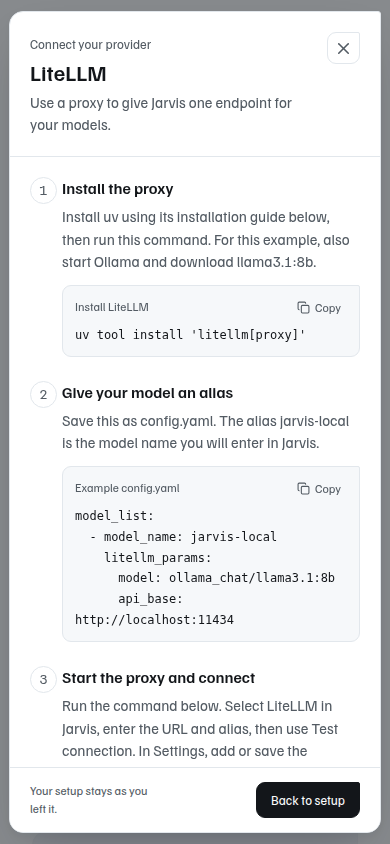
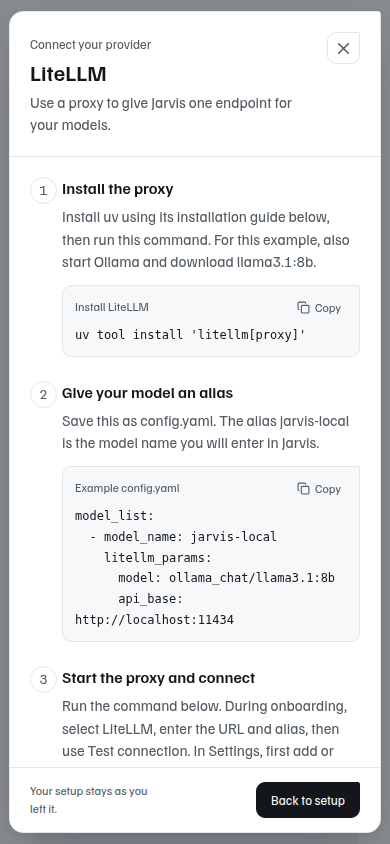
fix: clarify provider guide model setup before testing

Changed region(s): [[0.1538, 0.8318, 0.8923, 0.9242]]

diff --git a/ui/src/v2/ui/provider-setup-guides.ts b/ui/src/v2/ui/provider-setup-guides.ts
@@ -20,7 +20,7 @@ export const PROVIDER_SETUP_GUIDES: Record<string, ProviderSetupGuide> = {
     steps: [
       { title: "Install and open Ollama", text: "Download Ollama for Windows, macOS or Linux using the link below. Keep it running. On Linux, start ollama serve if the service is not already running." },
       { title: "Download a model", text: "Run this in your terminal. llama3.1:8b is an example that supports tools; choose a model that fits your available memory. The first download can take a few minutes.", code: "ollama pull llama3.1:8b", codeLabel: "Download example model" },
-      { title: "Connect it to Jarvis", text: "Select Ollama and enter the base URL below. Jarvis reads the installed models. Choose the exact model, including its tag, then use Test connection. In Settings, add or save the provider and assign the model in the model picker below." },
+      { title: "Connect it to Jarvis", text: "Select Ollama and enter the base URL below. During onboarding, choose the exact installed model, including its tag, then use Test connection. In Settings, first add or save the provider. In the model picker below, select that provider and its model. Once the model is saved, reopen the provider card and use Test connection. Testing before assigning a model can fail even when Ollama is running." },
     ],
     baseUrl: "http://localhost:11434",
     model: "llama3.1:8b",
@@ -50,7 +50,7 @@ export const PROVIDER_SETUP_GUIDES: Record<string, ProviderSetupGuide> = {
     steps: [
       { title: "Install the proxy", text: "Install uv using its installation guide below, then run this command. For this example, also start Ollama and download llama3.1:8b.", code: "uv tool install 'litellm[proxy]'", codeLabel: "Install LiteLLM" },
       { title: "Give your model an alias", text: "Save this as config.yaml. The alias jarvis-local is the model name you will enter in Jarvis.", code: "model_list:\n  - model_name: jarvis-local\n    litellm_params:\n      model: ollama_chat/llama3.1:8b\n      api_base: http://localhost:11434", codeLabel: "Example config.yaml" },
-      { title: "Start the proxy and connect", text: "Run the command below. Select LiteLLM in Jarvis, enter the URL and alias, then use Test connection. In Settings, add or save the provider before assigning the alias in the model picker below.", code: "litellm --config config.yaml --host 127.0.0.1 --port 4000", codeLabel: "Start LiteLLM" },
+      { title: "Start the proxy and connect", text: "Run the command below. During onboarding, select LiteLLM, enter the URL and alias, then use Test connection. In Settings, first add or save the provider with its URL and any required key. In the model picker below, select that provider and enter jarvis-local. Click outside the model field to save it. Once saved, reopen the provider card and use Test connection. Testing before assigning the alias can fail even when the proxy is running.", code: "litellm --config config.yaml --host 127.0.0.1 --port 4000", codeLabel: "Start LiteLLM" },
     ],
     baseUrl: "http://localhost:4000/v1",
     model: "jarvis-local",

diff --git a/docs/provider-guides/README.md b/docs/provider-guides/README.md
@@ -30,6 +30,11 @@ Two related setup inconsistencies are corrected: LiteLLM and OpenAI-compatible
 onboarding now accept optional API keys, and Settings permits connection tests
 without a key for providers that explicitly declare their key optional.
 
+The Ollama and LiteLLM guides distinguish the two setup flows: onboarding can
+test the model entered in its form; Settings must first save the provider, assign
+and save its model in the model picker, then reopen the provider card to test.
+LiteLLM's custom alias saves when focus leaves the model field.
+
 ## Verification
 
 Verified on 2026-10-06: 115 affected tests / 402 assertions passed; UI build and
@@ -38,6 +43,16 @@ TypeScript passed. Browser checks covered all four providers at 1440, 820 and
 clipboard, keyboard focus, form retention, optional keys and ten backdrop closes
 under reduced motion. No browser runtime errors were observed. The build retains
 the existing Bun warnings for Tailwind at-rules.
+
+Review correction verified on 2026-10-06: 34 focused guide/API tests and 116
+assertions passed, and the browser checks above were rerun with fresh screenshots.
+An additional browser check followed the revised Settings sequence for Ollama
+and LiteLLM, calling the real `testLLMProvider` against simulated HTTP model
+servers. Both servers rejected the old test-before-model order and accepted the
+exact assigned model after saving (`llama3.1:8b` and `jarvis-local`). Settings
+persistence was in memory; no live model inference was used. Results and the two
+Settings guide screenshots are in `evidence/settings-*-sequence.png` and
+`evidence/settings-sequence-checks.json`.
 
 Run the affected suite and build from the repository root:
 
@@ -51,8 +66,9 @@ bunx tsc --noEmit
 
 Browser evidence in `evidence/` renders the actual onboarding and LLM Settings
 components against isolated API fixtures. No real account configuration, gateway,
-model download or inference was used. The connection success fixtures verify the
-form's request handling, not end-to-end provider availability.
+model download or inference was used. The broad browser matrix mocks connection
+success; the additional Settings sequence check exercises real connection-testing
+code with simulated model servers. Neither establishes live provider availability.
 
 Manual review:
 
@@ -63,7 +79,9 @@ Manual review:
 3. Cycle Tab and Shift+Tab, then close with Escape. Check focus returns and all
    entered fields are unchanged. Repeat with the close button and backdrop.
 4. Repeat from Settings / LLM when adding a provider and editing an existing one.
-   Keyless local setups must allow Test connection.
+   For Ollama and LiteLLM, add/save the provider, assign and save its model below,
+   then reopen the provider card and test. Click outside LiteLLM's alias field to
+   save it. Keyless local setups must allow Test connection.
 5. Review both themes at desktop, tablet and mobile widths. Scroll the guide;
    its footer remains accessible and the underlying page stays still.
 
